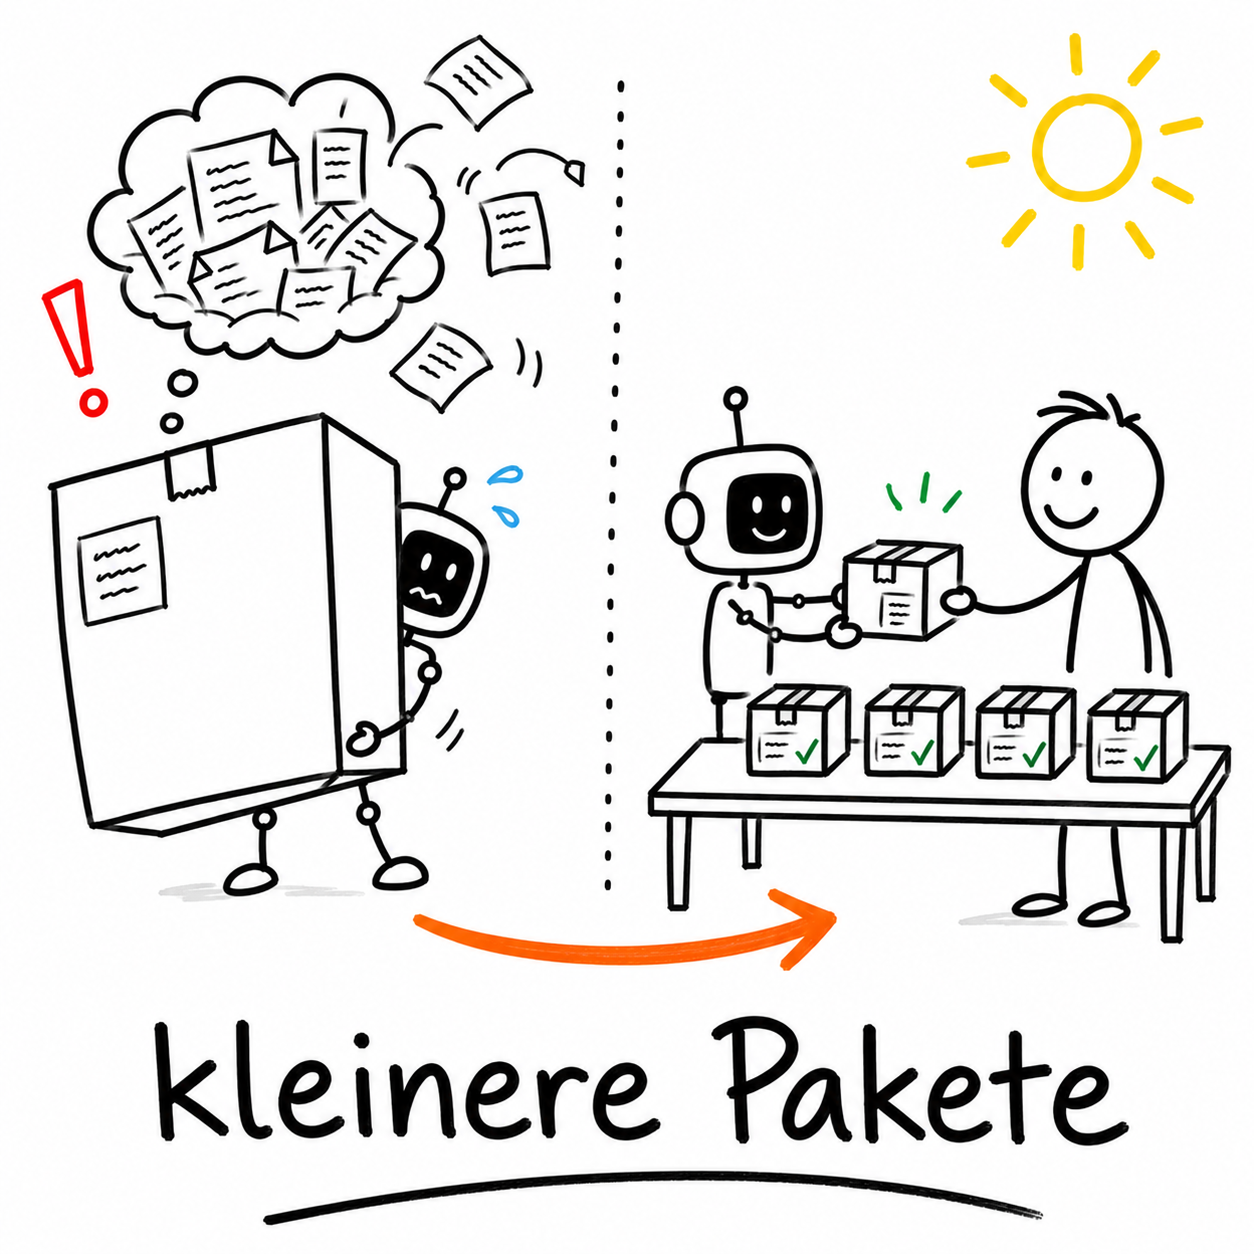
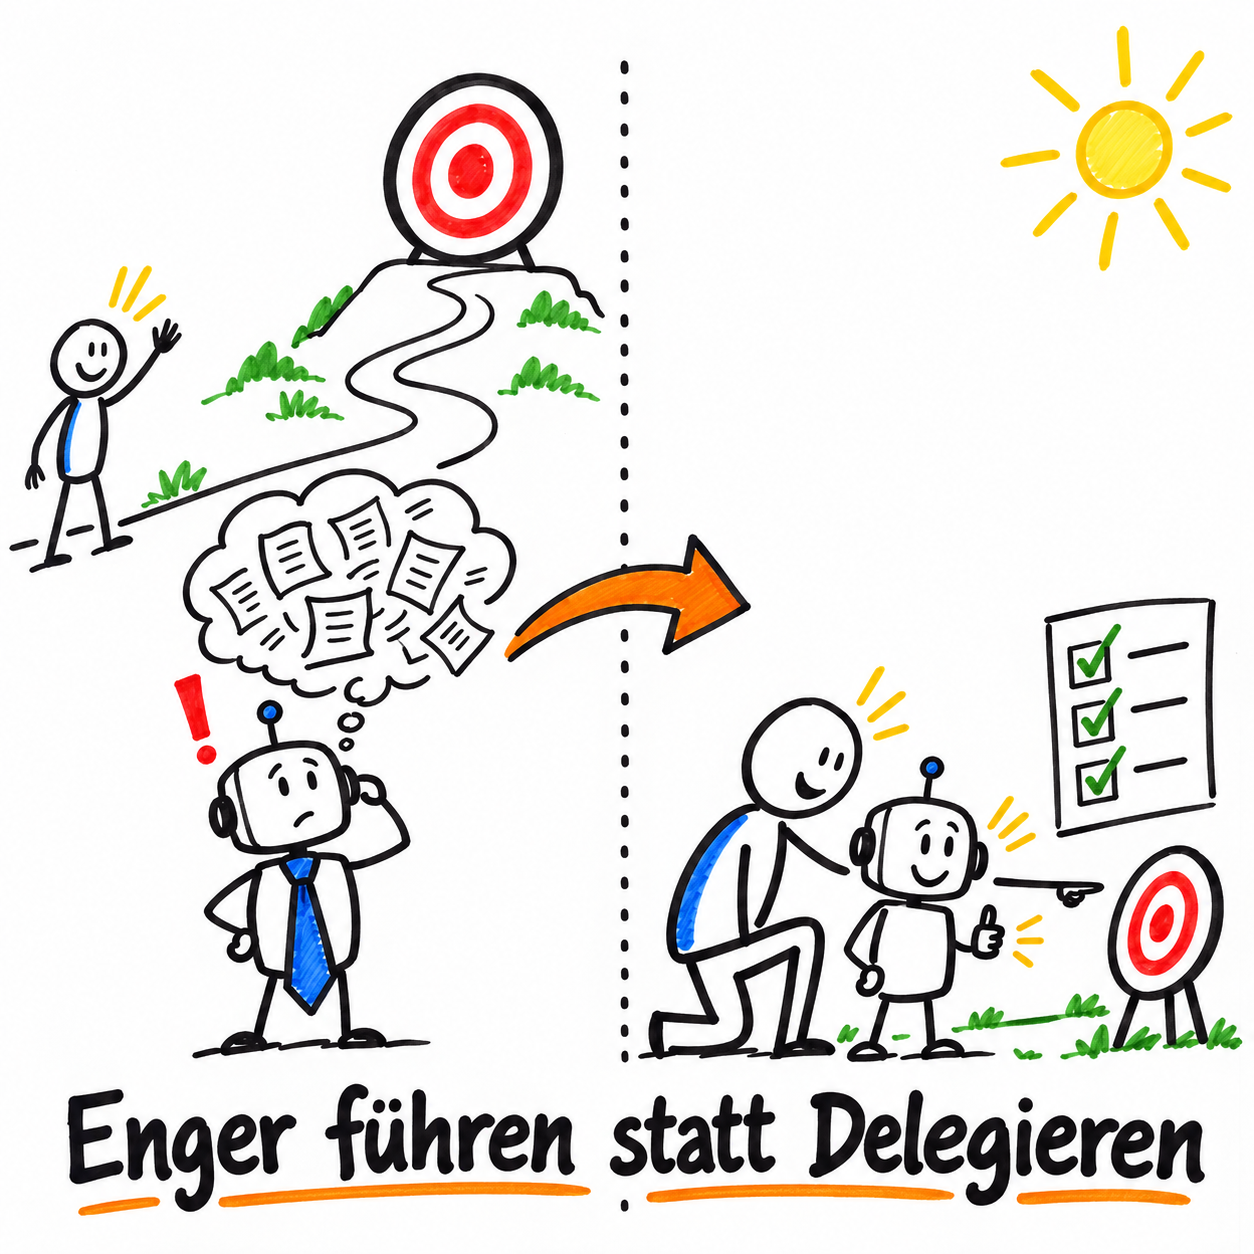
Reframe A1 story from smaller packages to situational leadership
The leadership translation of the kontextverloren post no longer says
cut work into smaller packages (too Tayloristic for knowledge work).
New message: Christian led the agent situationally but misjudged its
maturity - treated it as a senior (delegating) when for this task it
was a junior needing closer guidance and smaller goals with
checkpoints. Enger fuehren statt Delegieren.

Also: image prompt and PNG updated (targets instead of parcels),
B3 soundlikeme marked as posted 2026-07-13 in REPERTOIRE.md.

diff --git a/linkedin-posts/REPERTOIRE.md b/linkedin-posts/REPERTOIRE.md
@@ -6,7 +6,7 @@ against `VOICE.md`, Christian voice-checks and posts. Status: `idea` → `drafte
 
 **Cadence (agreed 2026-07-12):** journey reports (Track B) go out early in the
 week, Monday or Tuesday; leadership stories (Track A) late in the week, Thursday
-or Friday. First up: B3 (Mon/Tue 2026-07-13/14), then A1 (Thu/Fri 2026-07-16/17).
+or Friday. B3 went out Mon 2026-07-13; next up: A1 (Thu/Fri 2026-07-16/17).
 
 Harvested 2026-07-12 from all journal entries in `research/`.
 
@@ -16,7 +16,7 @@ AI story first (mostly), then the people-leadership translation.
 
 | # | Working title | AI story (source) | Leadership translation | Status |
 |---|---|---|---|---|
-| A1 | Kontext verloren | Refactoring hit the token limit; compacting failed because the context window was too small; session gone (Christian's own example) | Cut work into smaller chunks for overloaded employees; an overloaded person can't even hand over properly | drafted (20260712-li-story-kontextverloren) |
+| A1 | Kontext verloren | Refactoring hit the token limit; compacting failed because the context window was too small; session gone (Christian's own example) | Situational leadership: Christian treated the agent as a senior (delegating) when for this task it was a junior needing telling/selling — smaller goals, checkpoints; match style to task maturity, not to confident appearance (reframed 2026-07-14 from "smaller packages") | drafted (20260712-li-story-kontextverloren) |
 | A2 | Selbstbewusst ist nicht richtig | Agent reasoned confidently about path resolution and was wrong, twice in one session; the empirical check won (20260617) | The most confident voice in the meeting isn't the most correct one; verify at the source instead of trusting delivery style | idea |
 | A3 | Erst das Netz, dann die Kür | Characterization tests and a published baseline came before any refactoring; paid off the very next session (20260617, 20260628) | Build safety before demanding change from a team; psychological safety and reversibility make people brave | idea |
 | A4 | Wer muss sich bewegen? | Test fails after an intentional API change: first question is not "how do I make it pass?" but "which side should move — test or code?" (20260628) | When reality and a rule/KPI/process collide, ask which side should move instead of gaming the metric | idea |
@@ -40,7 +40,7 @@ Classic "what I did and learned", continuing the published series
 |---|---|---|---|
 | B1 | The big rename | 20260622–20260628 arc: reframe, publish-before-refactor, downstream reference chains, "which side should move", 288-file data commit | idea |
 | B2 | The frame keeps widening | 20260709 broadening: agentic → AI, three lenses, "you learn as fast as you build" (partly told in the snapshot post; angle: how the project keeps renaming itself and why that's cheap) | idea |
-| B3 | Teaching the AI to sound like me | This session: voice interview, five genuine posts as ground truth, the em-dash confession, building the repertoire itself | drafted (20260712-li-report-soundlikeme) |
+| B3 | Teaching the AI to sound like me | This session: voice interview, five genuine posts as ground truth, the em-dash confession, building the repertoire itself | posted (2026-07-13, 20260712-li-report-soundlikeme) |
 
 ## Parked / raw material
 